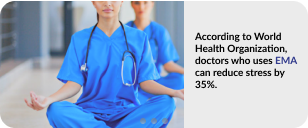
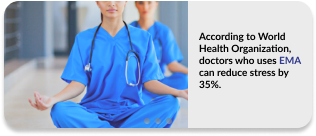
profile page update

diff --git a/app/assets/stylesheets/components/_dashbody.scss b/app/assets/stylesheets/components/_dashbody.scss
@@ -5,7 +5,7 @@
   top: 0px;
   position: absolute;
   bottom: 47.16%;
-  background: linear-gradient(180deg, #7e93dc 0%, rgba(0, 34, 154, 0) 100%);
+  background: linear-gradient(180deg, #596bd294 0%, rgba(0, 34, 154, 0) 100%);
 }
 
 .dash-bottom {
@@ -21,13 +21,27 @@
 
 .auto-rotate-img {
   // position: absolute;
-  height: 127px;
-  width: 308px;
+  height: 125px;
+  width: 310px;
   left: 0px;
   top: 0px;
-  background: url(covid-banner.png);
-  box-shadow: 1px 2px 4px 2px rgba(0, 0, 0, 0.25);
+  // background: url(covid-banner.png);
   border-radius: 15px;
+  background-position-x: -5px;
+  background-position-y: -4px;
+  background-repeat: no-repeat;
+  list-style-type: none;
+}
+
+.banner-3 {
+  width: 308px;
+  background-position-x: -5px;
+  background-position-y: -4px;
+}
+
+
+.carousel-inner {
+  transition-property: opacity;
 }
 
 .avatar-place-holder{
